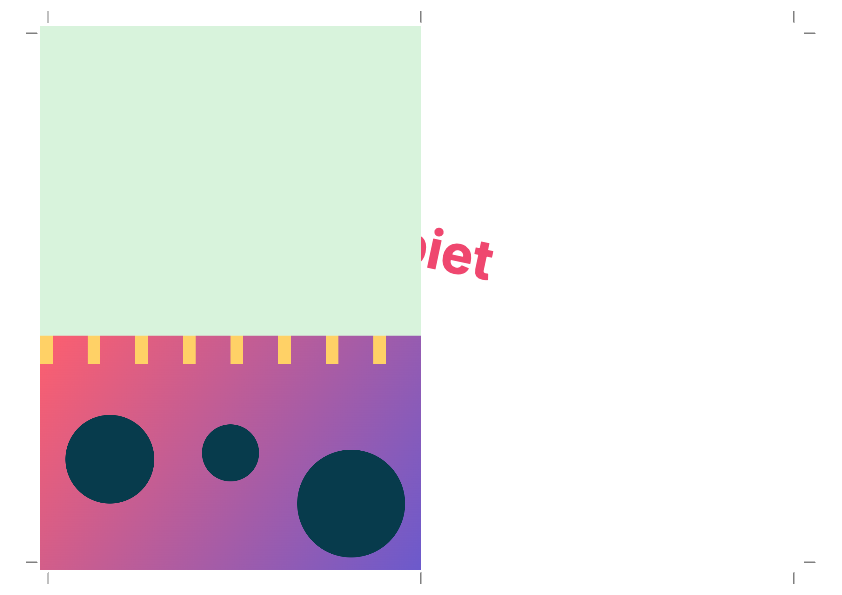
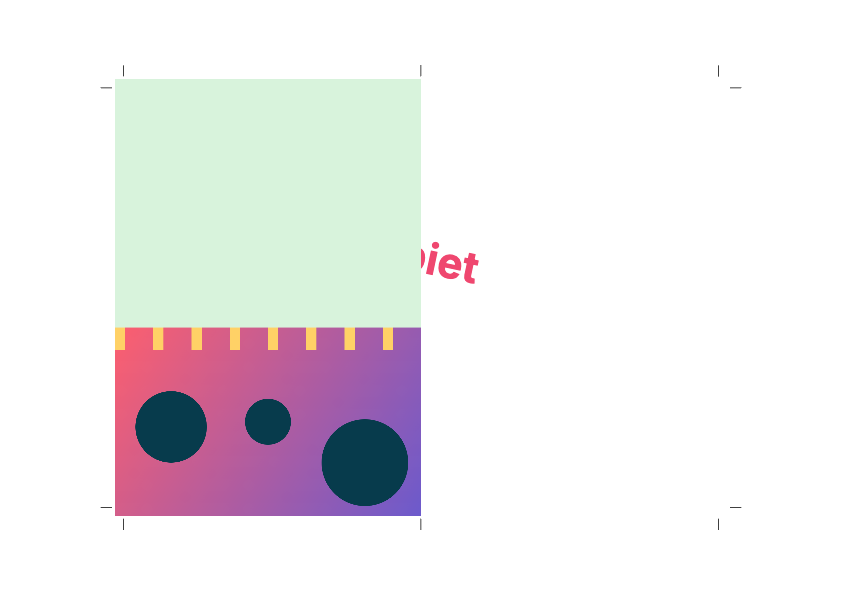
Redraw the sample zine in A6 and refresh the render references

Changed region(s): [[0.0309, 0.0303, 0.5249, 0.9681], [0.4941, 0.363, 0.5867, 0.484]]

diff --git a/src/test/sampleZine.ts b/src/test/sampleZine.ts
@@ -42,46 +42,46 @@ export async function sampleZine(): Promise<{ zine: Zine; assets: RenderAssets }
 
   // Cover (page 1, right half of spread 0).
   zine.spreads[0].elements.push(
-    createPhotoElement('p', { x: 160, y: 60, width: 124, height: 90, rotation: -4, flipX: true }),
-    createTextElement({ text: 'PRÓBKA', size: 40, bold: true, x: 178, y: 20, width: 88, align: 'center', letterSpacing: 80 }),
-    createTextElement({ text: 'zin z żółtą łódką', size: 14, italic: true, x: 178, y: 170, width: 88, align: 'center' }),
+    createPhotoElement('p', { x: 113.5, y: 42.3, width: 88, height: 63.4, rotation: -4, flipX: true }),
+    createTextElement({ text: 'PRÓBKA', size: 28.4, bold: true, x: 126.3, y: 14.1, width: 62.4, align: 'center', letterSpacing: 80 }),
+    createTextElement({ text: 'zin z żółtą łódką', size: 9.9, italic: true, x: 126.3, y: 119.8, width: 62.4, align: 'center' }),
   );
   // Pages 2–3: text on both sides, a photo bleeding off the outer edge of page 3.
   zine.spreads[1].elements.push(
     createTextElement({
       text: 'Zażółć gęślą jaźń. Pchnąć w tę łódź jeża lub ośm skrzyń fig.',
-      size: 12,
-      x: 20,
-      y: 30,
-      width: 108,
+      size: 8.5,
+      x: 14.2,
+      y: 21.1,
+      width: 76.6,
       lineHeight: 1.4,
     }),
-    createPhotoElement('p', { x: 200, y: -3, width: 99, height: 120, crop: { offsetX: 20, offsetY: 0, zoom: 1.5 } }),
+    createPhotoElement('p', { x: 141.9, y: -3, width: 71.1, height: 85.5, crop: { offsetX: 14.4, offsetY: 0, zoom: 1.5 } }),
   );
   // Pages 4–5: coloured pages, a photo bleeding off the bottom of page 4, right-aligned text.
   zine.pages[4] = { background: '#d8f3dc' };
   zine.pages[5] = { background: '#ffe5ec' };
   zine.spreads[2].elements.push(
-    createPhotoElement('p', { x: -3, y: 120, width: 151, height: 93 }),
-    createTextElement({ text: 'Tekst do prawej\nw dwóch wierszach', size: 16, x: 168, y: 40, width: 108, align: 'right' }),
+    createPhotoElement('p', { x: -3, y: 84.6, width: 108, height: 66.4 }),
+    createTextElement({ text: 'Tekst do prawej\nw dwóch wierszach', size: 11.4, x: 119.2, y: 28.2, width: 76.6, align: 'right' }),
   );
   // Pages 8–9: large rotated text across the fold.
   zine.spreads[4].elements.push(
-    createTextElement({ text: 'Grzbiet', size: 60, bold: true, x: 100, y: 80, width: 160, rotation: 12, color: '#ef476f' }),
+    createTextElement({ text: 'Grzbiet', size: 42.6, bold: true, x: 71, y: 56.4, width: 113.5, rotation: 12, color: '#ef476f' }),
   );
   // Pages 6–7, the centre spread: a photo across the fold, printed in one piece.
   zine.spreads[3].elements.push(
-    createPhotoElement('p', { x: 30, y: 40, width: 236, height: 130 }),
-    createTextElement({ text: 'Środek zina', size: 18, bold: true, x: 30, y: 180, width: 108, color: '#073b4c' }),
+    createPhotoElement('p', { x: 21.3, y: 28.2, width: 167.4, height: 91.6 }),
+    createTextElement({ text: 'Środek zina', size: 12.8, bold: true, x: 21.3, y: 126.9, width: 76.6, color: '#073b4c' }),
   );
   // Pages 10–11: a photo across the fold, printed on two different sheets.
   zine.spreads[5].elements.push(
-    createPhotoElement('p', { x: 40, y: 40, width: 216, height: 130, opacity: 0.8 }),
-    createTextElement({ text: 'Zdjęcie przez grzbiet, strony 10 i 11', size: 11, x: 30, y: 180, width: 88 }),
+    createPhotoElement('p', { x: 28.4, y: 28.2, width: 153.2, height: 91.6, opacity: 0.8 }),
+    createTextElement({ text: 'Zdjęcie przez grzbiet, strony 10 i 11', size: 7.8, x: 21.3, y: 126.9, width: 62.4 }),
   );
   // Back cover (page 12, left half of the last spread).
   zine.spreads[6].elements.push(
-    createTextElement({ text: 'koniec', size: 24, x: 30, y: 95, width: 88, align: 'center', color: '#ffffff' }),
+    createTextElement({ text: 'koniec', size: 17, x: 21.3, y: 67, width: 62.4, align: 'center', color: '#ffffff' }),
   );
 
   await ensureFontsReady(zine);
